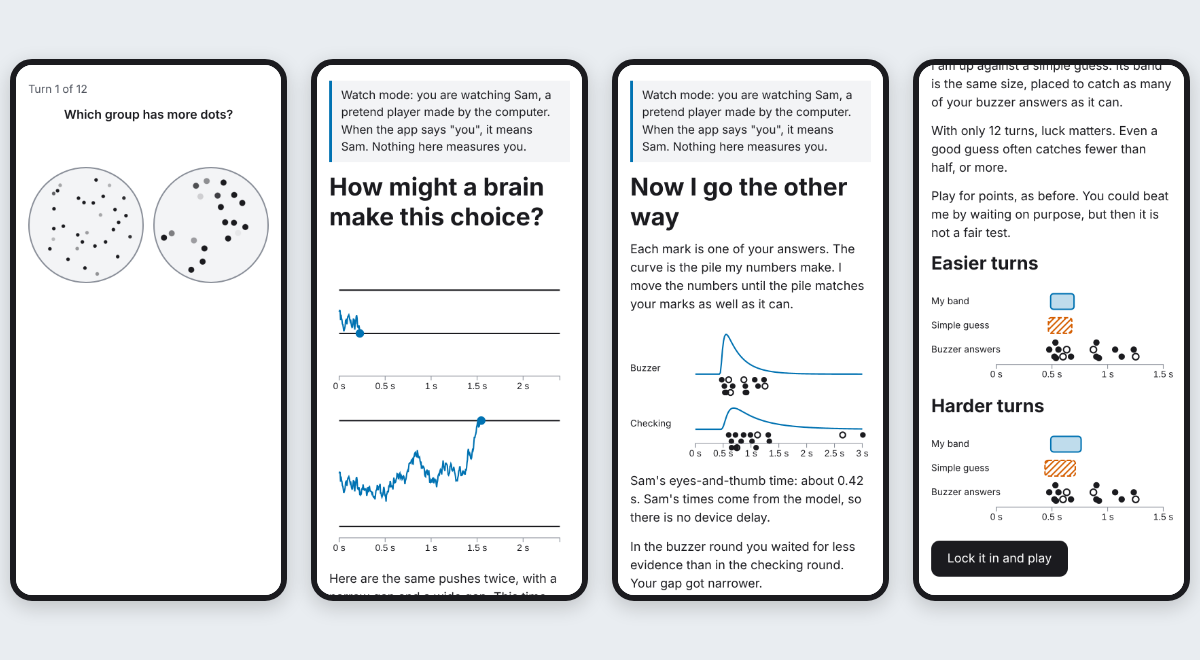
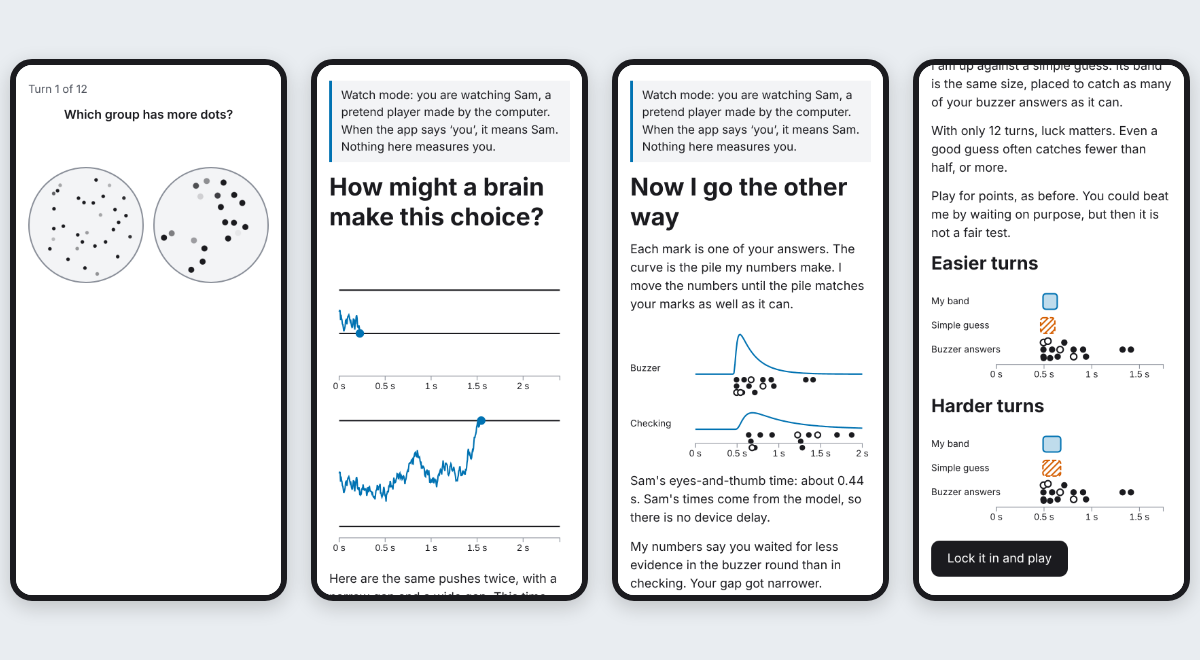
Correct the Read My Mind page's claims and update its screenshot
The page now says that only the app's own files are kept for offline use,
gives the four possible verdicts, reports the simulated contest without
calling it a best case, says which design choices simulation set and which it
checked, states what has been tested so far and shows the revised verdict
wording in the screenshot.

Claude-Session: https://claude.ai/code/session_01TGTFdtwhKn7UToy7Yomi9B

diff --git a/content/software/read-my-mind/index.md b/content/software/read-my-mind/index.md
@@ -2,7 +2,7 @@
 title: 'Read My Mind: Can a model of decision-making predict your next answers?'
 type: software
 software_kind: web-application
-abstract: 'Read My Mind is an educational web application in which students make a few dozen quick decisions about clouds of dots, watch a drift-diffusion model of decision-making being fitted to their own decisions on their device, and then see whether the predictions the model locks in about their next answers hold up. It is designed for students aged 11 to 18, stores and sends nothing, and works offline.'
+abstract: 'Read My Mind is an educational web application in which students make a few dozen quick decisions about clouds of dots, watch a drift-diffusion model of decision-making being fitted to their own decisions on their device and then see whether the predictions the model locks in about their next answers hold up. It is designed for students aged 11 to 18. It keeps nothing on the device beyond a copy of its own files, which lets it work offline once it has been opened, and nothing the student does is sent anywhere.'
 authors:
 date: "2026-11-19"
 featured: false
@@ -37,9 +37,9 @@ apa_captions: true
 ---
 
 
-[**Read My Mind**](https://pablobernabeu.github.io/read-my-mind/) is an educational web application that lets students test a scientific model of decision-making on their own choices. Students decide, as quickly and accurately as they can, which of two clouds of flickering dots has more dots. From those decisions, the application fits a drift-diffusion model on the student's own device, explains what the fitted model says about how they decided, and then commits to predictions about the timing of their next answers before they give them. The model can lose, and the application says so when it does.
+[**Read My Mind**](https://pablobernabeu.github.io/read-my-mind/) is an educational web application that lets students test a scientific model of decision-making on their own choices. Students decide, as quickly and accurately as they can, which of two clouds of flickering dots has more dots. From those decisions, the application fits a drift-diffusion model on the student's own device, explains what the fitted model says about how they decided and then commits to predictions about the timing of their next answers before they give them. The model can lose, and the application says so when it does.
 
-The application is designed for students aged 11 to 18, works on phones, tablets and laptops, and takes about eight minutes. It needs no login, stores nothing on the device beyond a copy of its own files for offline use, and sends nothing anywhere.
+The application is designed for students aged 11 to 18 and for phones, tablets and laptops. A rough estimate from simulated sittings puts a sitting at 7 to 11 minutes, depending on how fast the student reads and whether they read the closing card about the science, but no sitting has yet been timed. The application needs no login. It keeps nothing on the device beyond a copy of its own files, which lets it open offline after a first visit, and nothing the student does is sent anywhere.
 
 <div style="width: 100%; height: 800px; margin: 2em 0; border-radius: 8px; overflow: hidden; border: 1px solid #ddd;">
   <iframe src="https://pablobernabeu.github.io/read-my-mind/"
@@ -60,47 +60,49 @@ graph TD
   D --> E["The model is fitted to the<br/>student's own answers"]
   E --> F["Predictions are locked in:<br/>a time band for each of<br/>the next 12 turns"]
   F --> G["12 more buzzer turns, each<br/>revealed against the model<br/>and a simple guess"]
-  G --> H["Results, the trade-off<br/>between speed and accuracy,<br/>and the real science"]
+  G --> H["Results, the trade-off<br/>between speed and accuracy<br/>(only if the gap narrowed)<br/>and the real science"]
 {{< /diagram >}}
 
-The dots do not stay still. Each dot appears at a random moment, lives for half a second and then disappears, so the number on screen fluctuates around each cloud's average. Counting is therefore impossible, and the evidence a student sees really does arrive bit by bit, which is the situation the model describes. Half the trials in each round give the larger cloud more ink, and half give it less, so that neither the total area nor the size of the dots points to the answer.
+The dots do not stay still. Each dot appears at a random moment, lives for half a second and then disappears, so the number on screen fluctuates around each cloud's average. Counting is therefore impossible, and the evidence a student sees arrives bit by bit, which is the situation the model describes. At each difficulty in the buzzer and checking rounds and in the 12 prediction turns, the cloud with more dots is on the left in half the turns and on the right in the other half. Likewise, it has the larger total area and the larger dots in half the turns and the smaller in the other half, so that neither its side, its total area nor the size of its dots points to the answer. In the practice turns, the side and these cues are drawn at random for each turn.
 
 ## Educational Objectives
 
-Students learn that a scientific model makes predictions that can be tested and that a fair test is one the model can fail. They learn that predictions about people are ranges rather than single values, which links to medians, quartiles and the shape of a distribution in school statistics. They also experience the trade-off between speed and accuracy, and discover that the best balance depends on what a mistake costs. The application never ranks or scores students against one another, and it reminds them that the numbers it finds describe one sitting on one device rather than the student.
+Students learn that a scientific model makes predictions that can be tested and that a fair test is one the model can fail. They learn that predictions about people are ranges rather than single values, which links to medians, quartiles and the shape of a distribution in school statistics. They also experience the trade-off between speed and accuracy under two scoring rules. Students whose gap narrowed under the buzzer are then shown how each of their two gaps would have scored under each rule, which in most cases shows that the best balance depends on what a mistake costs. The application never ranks or scores students against one another, and it reminds them that the numbers it finds describe one sitting on one device rather than the student.
 
 ## The Model Behind It
 
-The drift-diffusion model treats a quick two-choice decision as evidence that accumulates over time until it reaches one of two thresholds ([Ratcliff et al., 2016](https://doi.org/10.1016/j.tics.2016.01.007)). Three kinds of number describe it, which the application introduces in plain words: clue strength (the drift rate), the gap between the two thresholds (the boundary separation) and eyes-and-thumb time (the non-decision time). Clue strength is assumed to grow with the log of the ratio of the two dot counts, in line with research on comparing clouds of dots ([Ratcliff & McKoon, 2018](https://doi.org/10.1037/rev0000085)).
+The drift-diffusion model treats a quick two-choice decision as evidence that accumulates over time until it reaches one of two thresholds ([Ratcliff et al., 2016](https://doi.org/10.1016/j.tics.2016.01.007)). Three kinds of number describe it, which the application introduces in plain words: clue strength (the drift rate), the gap between the two thresholds (the boundary separation) and eyes-and-thumb time (the non-decision time). Clue strength is assumed to be proportional to the log of the ratio of the two dot counts, in line with research on comparing clouds of dots ([Ratcliff & McKoon, 2018](https://doi.org/10.1037/rev0000085)).
 
-The application uses a simplified version of the model, without the variability between trials that researchers usually include, and it says what this leaves out: the simplified model predicts that correct and wrong answers take the same time, whereas real mistakes are often slower ([Ratcliff & Rouder, 1998](https://doi.org/10.1111/1467-9280.00067)). It also tells students that it assumes the buzzer changes only how much evidence they wait for, although hurrying often changes other parts of the decision too ([Lerche & Voss, 2018](https://doi.org/10.3758/s13428-018-1034-7)). The fit is exact maximum likelihood, computed in a background thread of the browser while the student reads the explanation, and it allows for a few lucky guesses.
+The application uses a simplified version of the model, without the variability between trials that researchers usually include, and it says what this leaves out: the simplified model predicts that correct and wrong answers take the same time, whereas real mistakes are often slower and can be faster when people rush ([Ratcliff & Rouder, 1998](https://doi.org/10.1111/1467-9280.00067)). It also tells students that it assumes the buzzer changes only how much evidence they wait for, although hurrying often changes other parts of the decision too ([Lerche & Voss, 2018](https://doi.org/10.3758/s13428-018-1034-7)). The model is fitted by maximum likelihood in a background thread of the browser while the student reads the explanation. The likelihood is computed from a series for the first-passage-time density rather than by simulation, and it allows for 5% of answers being random guesses.
 
 ## An Honest Test
 
-After the fit, the application tells students whether the buzzer made them wait for less evidence, or that the turns are too few to tell, which is the honest answer for many students. It then draws, for each of the next 12 turns, a band of times where it expects about half of the student's answers to land, and locks these bands in before the student plays on (Figure 1). The model competes against a simple guess: a band of the same width, placed where it would have caught the most of the student's own buzzer answers. Both bands are built in the same way, so neither gains from the skew of response times alone.
+After the fit, the application tells students whether the buzzer made them wait for less evidence, or that the turns are too few to tell, which is the honest answer for many students. Less often, it says that they seemed to wait for more evidence, which can happen by chance or if they got quicker as they played. Rarely, its numbers end at the edge of the range it allows, and it reports that it cannot say much about the student's gap. Next, the application draws, for each of the next 12 turns, a band of times where it expects about half of the student's answers to land, and locks these bands in before the student plays on (Figure 1). The model competes against a simple guess: a band of the same width, placed where it would have caught the most of the student's own buzzer answers. Both bands are built in the same way, so neither gains from the skew of response times alone.
 
 <figure>
-<img loading="lazy" decoding="async" src="img/screens.png" alt="Four phone screens from Read My Mind: a practice turn with two clouds of dots; the explanation, in which the same noisy evidence reaches the bottom line with a narrow gap and the top line with a wide gap; the fit, with the student's answers under the curves the model predicts for each round; and the locked prediction card, showing the model's band and the simple guess for easier and harder turns" style="max-width:100%; border-radius:6px; margin: 1em 0;">
-<figcaption>A Practice Turn, the Explanation, the Fit and the Locked Prediction Card. All but the first are shown in Watch mode, in which a pretend player answers.</figcaption>
+<img loading="lazy" decoding="async" src="img/screens.png" alt="Four phone screens from Read My Mind. The first shows a practice turn with two clouds of dots. The second shows the explanation, in which the same noisy evidence reaches the bottom line with a narrow gap and the top line with a wide gap. The third shows the fit, with the pretend player's answers under the curves the model predicts for each round. The fourth shows the locked prediction card, with the model's band and the simple guess above the pretend player's buzzer answers for easier and harder turns." style="max-width:100%; border-radius:6px; margin: 1em 0;">
+<figcaption>A Practice Turn, the Explanation, the Fit and the Locked Prediction Card. All but the first are shown in Watch mode, so the marks on the fit and on the prediction card are the answers of Sam, a pretend player.</figcaption>
 </figure>
 
-With only 12 turns, a single game is a small test, and the application says so. Before release, its design was tested on thousands of simulated players who behave exactly as the model assumes. With 5% of answers being guesses, the model won 40% of games against the simple guess, tied 40% and lost 20%, and its bands caught 50% of the answers. Real people depart from the model, so they will make its predictions look worse, and the application tells students this too.
+With only 12 turns, a single game is a small test, and the application says so. Before release, its design was tested on thousands of simulated players. In 1,500 simulated sittings by players who follow the model apart from 5% of answers that are guesses, the model won 39.9% of games against the simple guess, tied 40.5% and lost 19.6%, which the application rounds to 40, 40 and 20, and its bands caught 49.7% of the answers. When simulated players departed from the model, it never did better in the contest by more than simulation error, and it did clearly worse with more guesses, very quick guesses or variability from turn to turn. The contest figures therefore probably overstate how the model will fare with real students, as the application tells them.
 
 ## Accessibility and Privacy
 
 The application aims to meet the Web Content Accessibility Guidelines 2.2 at level AA. It works by touch, mouse or keyboard, supports reduced motion and light or dark colours, and never uses colour alone to carry meaning. Because the dot task is visual, students who cannot use it can choose Watch mode, which follows a pretend player through every step without timing, with each turn also given in a table. A page of notes for teachers suggests a 15 to 20 minute lesson, discussion prompts and a class tally of the model's wins, ties and losses that collects nothing about pupils.
 
-Nothing a student does leaves the device. A content security policy blocks network requests from the page, there are no accounts, cookies or analytics, and closing the page removes the sitting.
+Nothing a student does leaves the device. A content security policy stops the page's scripts from opening network connections and lets the page load only its own files from its own site. There are no accounts, cookies or analytics, and closing the page removes the sitting.
 
 ## How It Was Built and Tested
 
-The design was chosen by simulation, and every simulation ran the application's own code on four ordinary processor cores, so no high-performance computing was needed. Simulated players answered through the same state machine, planning, scoring and fitting that a student meets. The simulations set the number of turns, the payoffs, the order of the rounds and the width of the prediction bands. They also checked that the verdict on the buzzer rarely claims a change that did not happen (about 3% of the time when it did not) and held up when simulated players departed from the model in several ways.
+The order of the rounds, the numbers of turns and the payoffs were set before the application's own simulation studies, largely following a design review in October 2026 that included two independent simulation studies of the proposed design. The application's own studies then tested these choices. They ran its code on four ordinary processor cores, so no high-performance computing was needed, and in most of them simulated players answered through the same state machine, planning, scoring and fitting that a student meets. The share of predicted answers that each band holds (52%) and the range of times the fit allows for guesses (up to 8 seconds) were chosen by simulation.
 
-The model's first-passage-time code agrees with a 50-digit evaluation of the series to machine precision and with PyDDM to within its own numerical error. Automated browser tests play whole sittings by touch and by keyboard, check that nothing is stored or sent and that the application works offline, and run automated accessibility checks on every screen.
+The simulations also checked the verdict on a separate set of 1,500 simulated players of the same kind whose gap did not change. It wrongly said that the gap got narrower for 3.1% of them and that it got wider for another 3.1%. When simulated players departed from the model in several ways, false 'narrower' verdicts stayed between 1.4% and 3.7% with the rounds in the application's order. With practice effects and the checking round first, they rose to 6.5%, which supports playing the buzzer round first. In that order, practice effects gave the lowest rate of false 'narrower' verdicts but raised false 'wider' verdicts to 8.1%.
+
+The model's first-passage-time code agrees with a 50-digit evaluation of the series to machine precision and with PyDDM to within PyDDM's own numerical error. Automated browser tests in Chromium, on an emulated phone and an emulated laptop, play whole sittings by touch and by keyboard. They check that nothing is stored beyond the service worker's copy of the application's own files, that the page requests nothing but those files and that the application opens offline after one visit, and they run axe-core accessibility checks on each kind of screen. The application has not yet been tested in other browsers, on a tablet, on real devices or with a screen reader.
 
 ## Source Code and Contributions
 
-The application is written in HTML, CSS and JavaScript, with charts drawn in [D3.js](https://d3js.org/), and it has no build step or server. The [source code is available on GitHub](https://github.com/pablobernabeu/read-my-mind) under the MIT licence for code and the [Creative Commons Attribution 4.0 International](https://creativecommons.org/licenses/by/4.0/) licence for content. The repository documents the design decisions, the simulation studies and their results. Feature requests, bug reports and other suggestions can be submitted as [issues](https://github.com/pablobernabeu/read-my-mind/issues).
+The application is written in HTML, CSS and JavaScript, with charts drawn in [D3.js](https://d3js.org/). It needs no build step, and any static web server can host it. The [source code is available on GitHub](https://github.com/pablobernabeu/read-my-mind) under the MIT licence for code and the [Creative Commons Attribution 4.0 International](https://creativecommons.org/licenses/by/4.0/) licence for content. The repository documents the design decisions, the simulation studies and their results. Feature requests, bug reports and other suggestions can be submitted as [issues](https://github.com/pablobernabeu/read-my-mind/issues).
 
 ## References
 
